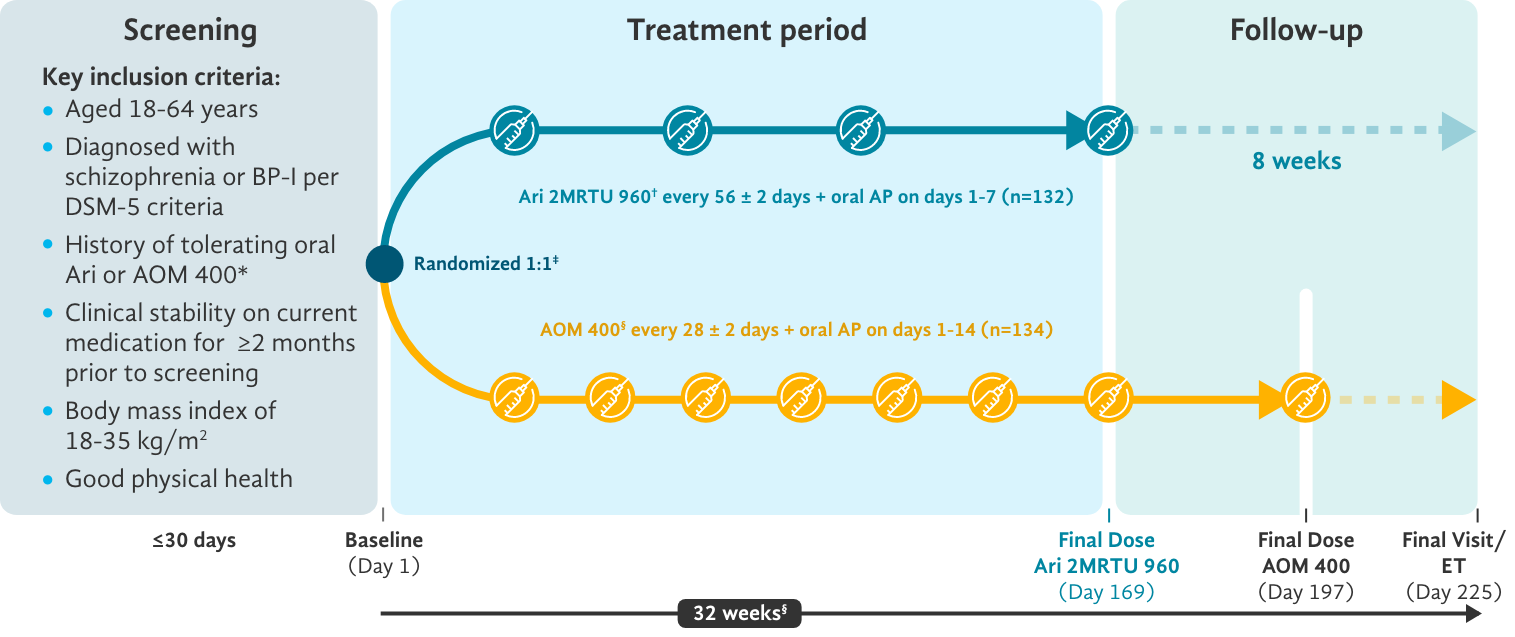
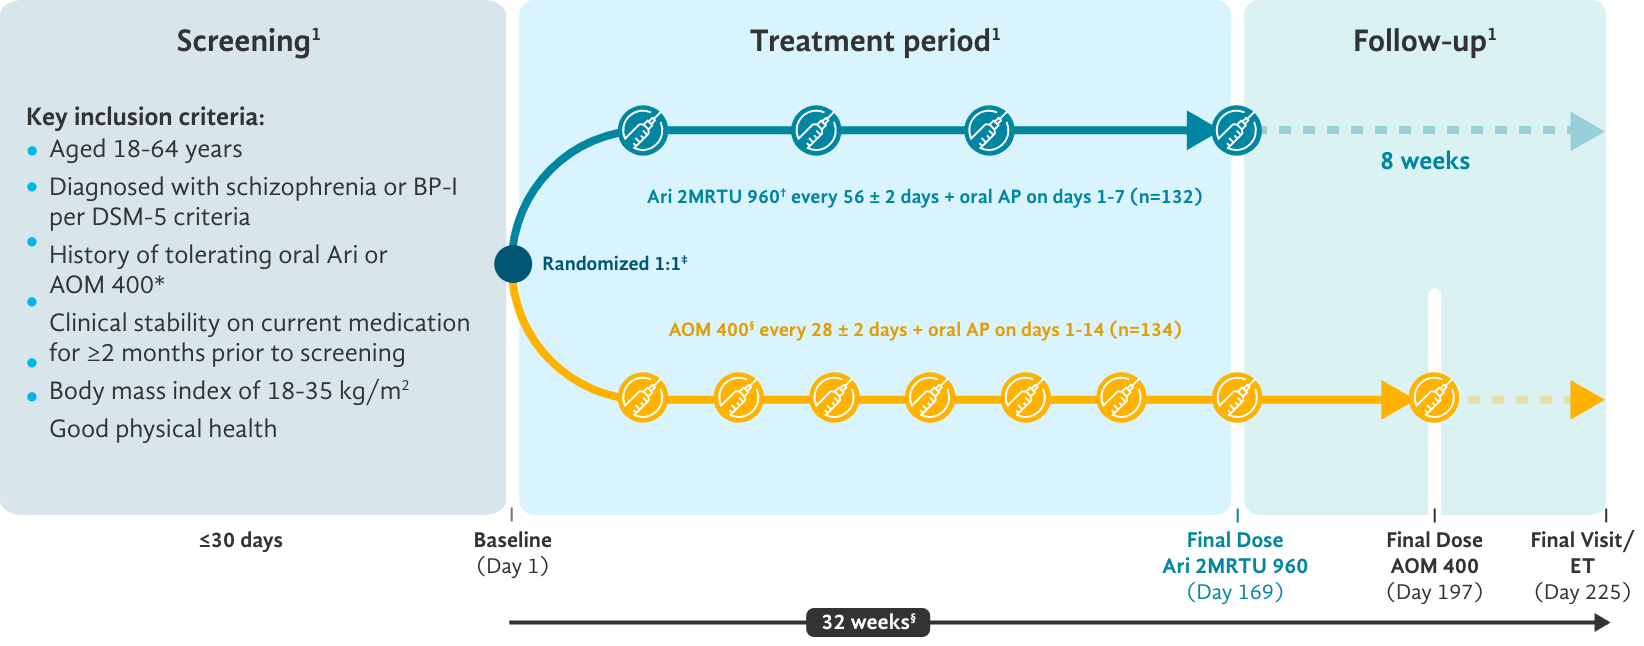
DF-33759 | Remove subsriptions, replace img

diff --git a/projects/veeva-clm/src/Components/05-pages/A.3.2.1_Efficacy/A.3.2.1_Efficacy.stories.jsx b/projects/veeva-clm/src/Components/05-pages/A.3.2.1_Efficacy/A.3.2.1_Efficacy.stories.jsx
@@ -1,11 +1,11 @@
 import React from 'react';
 import { AppStorybook } from '@pages/AppStorybook';
 import Header from '@/Components/01-atoms/Content/Header/Header';
-import EfficacyDiagramImg from './img/efficacyDiagram.png?format=webp';
 import AsimtufiiLogo from '@assets/asimtufii-logo.png';
 
 import './A.3.2.1_Efficacy.scss';
 import { Footer } from '@/Components/03-organisms/Footer/Footer';
+import EfficacyDiagramImg from './img/efficacyDiagram.png?format=webp';
 
 export default {
   title: 'CLM/Pages',
@@ -28,7 +28,7 @@ const content = () => (
     </Header>
     <Header type='h3' custom='mb-13'>
       Open-label, multiple-dose, randomized, parallel-arm, multicenter,
-      pharmacokinetic bridging study <sup>1</sup>
+      pharmacokinetic bridging study
     </Header>
     <img
       src={EfficacyDiagramImg}
@@ -41,6 +41,7 @@ const content = () => (
           {
             innerText:
               'One of the primary objectives of the trial was to establish similarity of aripiprazole concentrations between ABILIFY ASIMTFUll and ABILIFY MAINTENA® (aripiprazole).',
+            supRight: '1',
           },
           {
             supLeft: '*',
